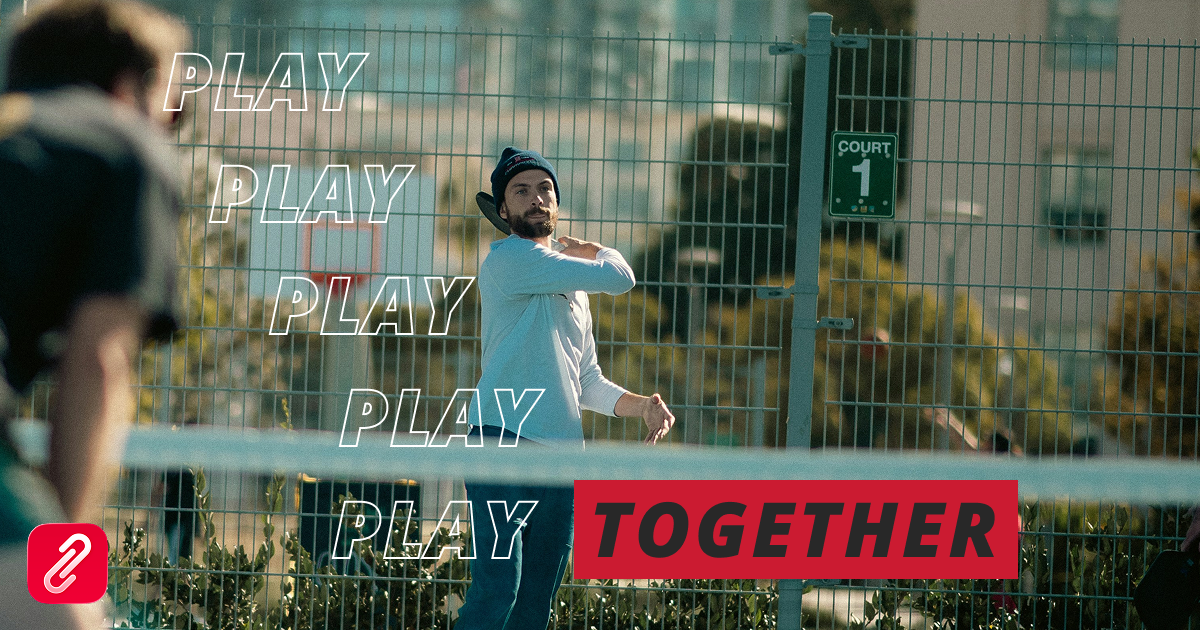
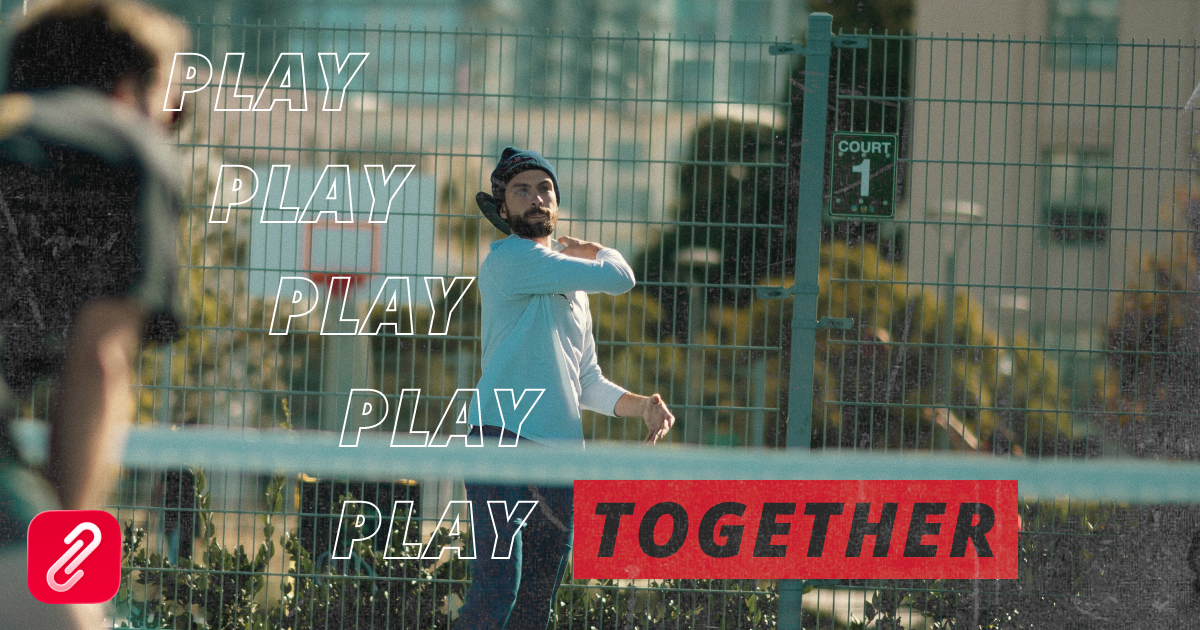
config og metadata for /events/*

diff --git a/client/public/404.html b/client/public/404.html
@@ -3,6 +3,45 @@
   <head>
     <meta charset="UTF-8" />
     <meta name="viewport" content="width=device-width, initial-scale=1.0" />
+    <meta
+      name="description"
+      content="You were invited to join an activity on SportLink. Open the app to view the activity and RSVP." />
+    <link
+      rel="canonical"
+      href="https://sportlinkapp.ca/" />
+    <meta
+      property="og:type"
+      content="website" />
+    <meta
+      property="og:site_name"
+      content="SportLink" />
+    <meta
+      property="og:title"
+      content="You’re Invited to an Activity on SportLink" />
+    <meta
+      property="og:description"
+      content="Someone invited you to join an activity. Open SportLink to see details and RSVP." />
+    <meta
+      property="og:url"
+      content="https://sportlinkapp.ca/" />
+    <meta
+      property="og:image"
+      content="https://sportlinkapp.ca/screenshots/universal-link_artwork.png" />
+    <meta
+      property="og:image:alt"
+      content="SportLink app preview" />
+    <meta
+      name="twitter:card"
+      content="summary_large_image" />
+    <meta
+      name="twitter:title"
+      content="You’re Invited to an Activity on SportLink" />
+    <meta
+      name="twitter:description"
+      content="Someone invited you to join an activity. Open SportLink to see details and RSVP." />
+    <meta
+      name="twitter:image"
+      content="https://sportlinkapp.ca/screenshots/universal-link_artwork.png" />
     <title>Page Not Found</title>
     <script>
       (function () {